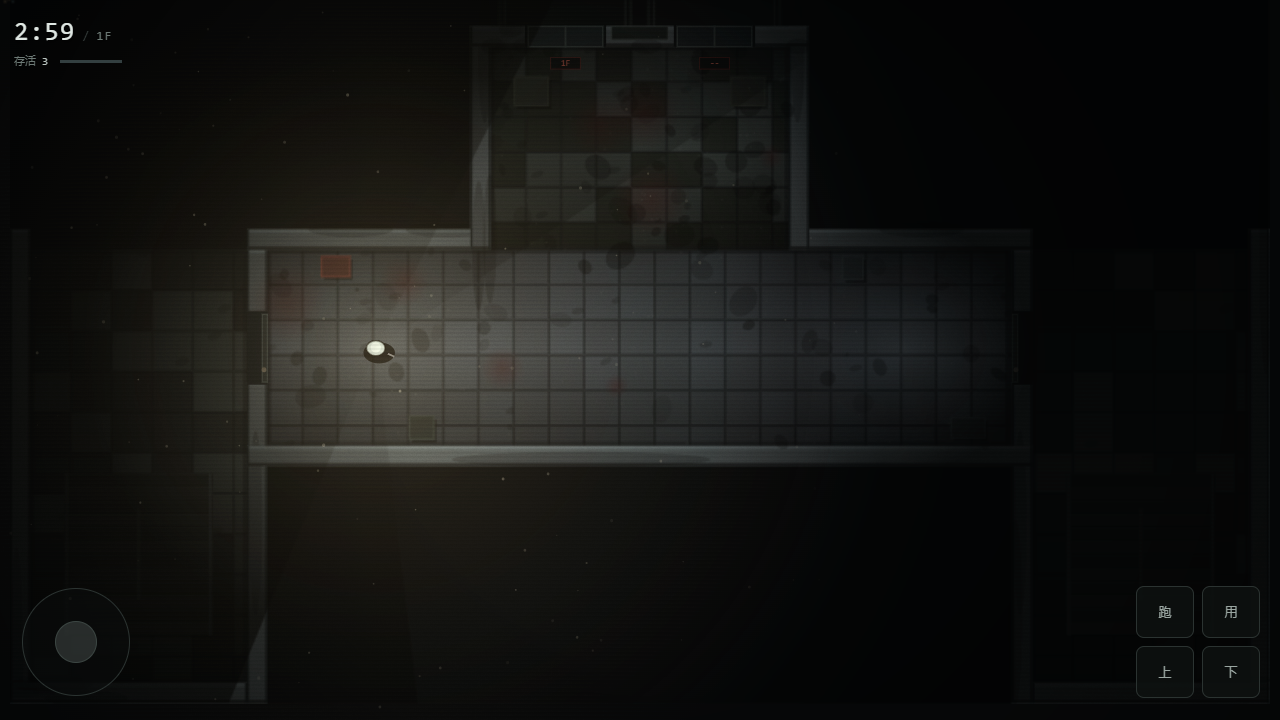
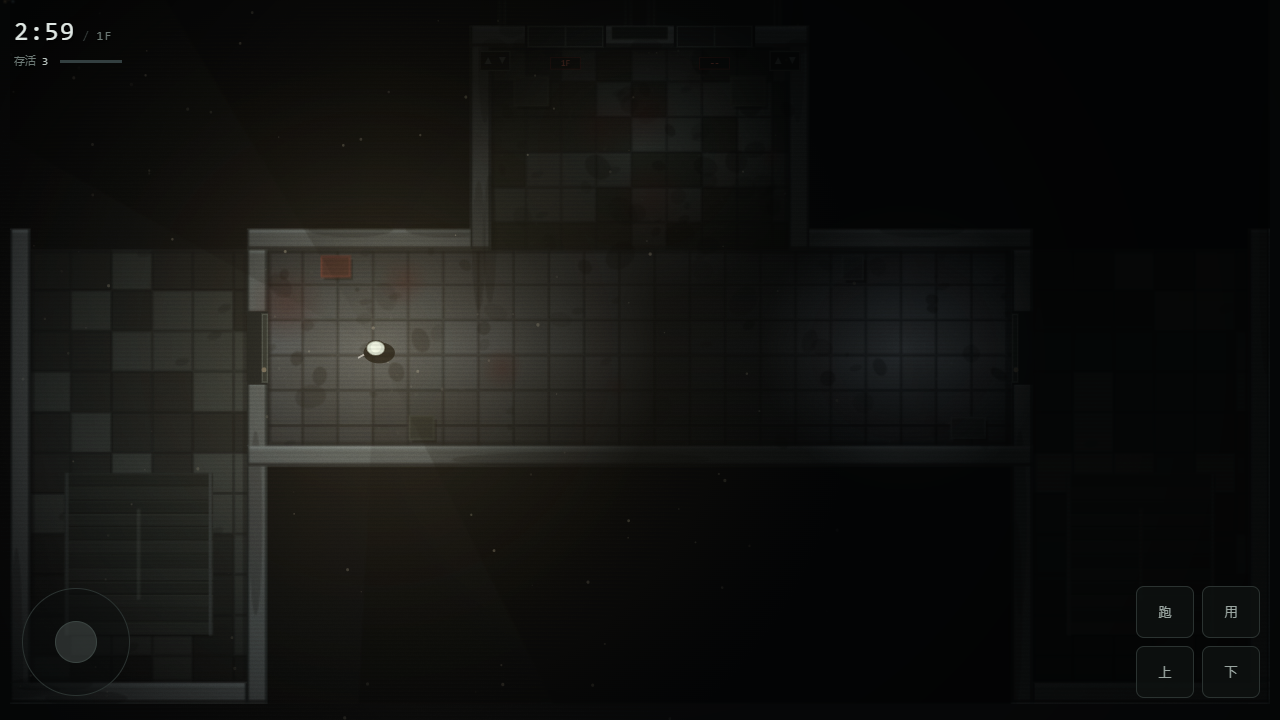
fix: 呼梯面板可点、点轿厢可进、点楼梯门先走近再推、楼道里点楼梯自动上楼

diff --git a/js/main.js b/js/main.js
@@ -10,6 +10,9 @@
   var last = 0;
   var running = false;
   var walkTarget = null;
+  var walkPath = [];
+  var pendingCall = null;
+  var pendingDoor = null;
   var lastMoveY = 0;
   var started = false;
   var lastSpace = null;
@@ -34,6 +37,12 @@
   }
 
   function restart() { boot(); }
+
+  /* 多段路点：比如「先走到门前 → 再穿过去 → 再到楼梯口」 */
+  function setWalk(points) {
+    walkPath = points.slice();
+    walkTarget = walkPath.length ? walkPath[0] : null;
+  }
 
   /* ---------- 动作 ---------- */
 
@@ -83,24 +92,47 @@
     var dA = g.stairDoorA.rect, dB = g.stairDoorB.rect;
     if (World.dist(pt.x, pt.y, dA.x + dA.w / 2, dA.y + dA.h / 2) < 0.85 ||
       World.dist(pt.x, pt.y, dB.x + dB.w / 2, dB.y + dB.h / 2) < 0.85) {
-      World.playerToggleDoor.call(null);
-      /* 距离太远就先走过去 */
-      var L = World.dist(pt.x, pt.y, dA.x, dA.y) < World.dist(pt.x, pt.y, dB.x, dB.y) ? "A" : "B";
-      var dr = L === "A" ? dA : dB;
-      if (World.dist(p.x, p.y, dr.x + dr.w / 2, dr.y + dr.h / 2) > 1.35) {
-        walkTarget = { x: dr.x + dr.w / 2, y: dr.y + dr.h / 2 };
+      var L0 = World.dist(pt.x, pt.y, dA.x, dA.y) < World.dist(pt.x, pt.y, dB.x, dB.y) ? "A" : "B";
+      var dr0 = L0 === "A" ? dA : dB;
+      /* 门前站位：走廊一侧，别站墙里 */
+      var front = { x: L0 === "A" ? dr0.x + dr0.w + 0.6 : dr0.x - 0.6, y: dr0.y + dr0.h / 2 };
+      if (World.dist(p.x, p.y, front.x, front.y) > 0.7) {
+        setWalk([{ x: front.x, y: front.y }]);
+        pendingDoor = L0;
+      } else {
+        World.playerToggleDoor();
       }
       return;
     }
 
-    /* 呼梯按钮 */
-    var cC = g.elev.C.gap, cD = g.elev.D.gap;
-    var nearC = Math.abs(pt.x - (cC.x + cC.w / 2)) < 0.5 && Math.abs(pt.y - cC.y) < 0.6;
-    var nearD = Math.abs(pt.x - (cD.x + cD.w / 2)) < 0.5 && Math.abs(pt.y - cD.y) < 0.6;
-    if (nearC || nearD) {
-      if (Geom.inRect(g.hall, p.x, p.y, -0.05)) World.playerCallElevator(1);
-      else walkTarget = { x: g.hallCX, y: g.hallY0 + 1.1 };
-      return;
+    /* 电梯：呼梯面板 / 轿厢 */
+    for (var i = 0; i < world.elevators.length; i++) {
+      var e = world.elevators[i];
+      var info = e.id === "C" ? g.elev.C : g.elev.D;
+      var car = info.car, panel = info.panel;
+
+      /* 点轿厢（井道里，或门开着时车体露出来的那块） */
+      var inCarArea = pt.y < g.hallY0 - 0.05 && pt.x > car.x - 0.2 && pt.x < car.x + car.w + 0.2;
+      if (inCarArea) {
+        if (e.doorsOpen && Math.abs(e.floor - p.floor) < 0.06) {
+          var carRect = e.id === "C" ? g.elev.C.car : g.elev.D.car;
+          setWalk([{ x: e.cx, y: g.hallY0 - 0.15 }, { x: e.cx, y: carRect.y + carRect.h * 0.55 }]);
+          return;
+        }
+        if (Geom.inRect(g.hall, p.x, p.y, 0.2)) World.playerCallElevator(1);
+        else { setWalk([{ x: g.hallCX, y: g.hallY0 + 1.0 }]); pendingCall = 1; }
+        return;
+      }
+
+      /* 点 ▲▼ 面板 */
+      var pad = 0.14;
+      if (pt.x > panel.x - pad && pt.x < panel.x + panel.w + pad &&
+        pt.y > panel.y - pad && pt.y < panel.y + panel.h + pad) {
+        var dir = (pt.x < panel.x + panel.w / 2) ? 1 : -1;
+        if (Geom.inRect(g.hall, p.x, p.y, 0.2)) World.playerCallElevator(dir);
+        else { setWalk([{ x: g.hallCX, y: g.hallY0 + 1.0 }]); pendingCall = dir; }
+        return;
+      }
     }
 
     /* 楼梯通道：点上半段上楼，下半段下楼 */
@@ -108,7 +140,15 @@
       if (World.nearStairs()) {
         World.playerTryStairs(pt.y < g.stairZoneA.y + g.stairZoneA.h / 2 ? 1 : -1);
       } else {
-        walkTarget = { x: pt.x, y: g.stairZoneA.y + 0.45 };
+        var useA = Geom.inRect(g.stairZoneA, pt.x, pt.y, 0);
+        var dr = useA ? g.stairDoorA.rect : g.stairDoorB.rect;
+        var cy = dr.y + dr.h / 2;
+        var sign = useA ? 1 : -1;
+        var front = { x: dr.x + dr.w / 2 + sign * 0.75, y: cy };   // 门前（走廊侧）
+        var gap = { x: dr.x + dr.w / 2, y: cy };                    // 门洞里
+        var inside = { x: dr.x + dr.w / 2 - sign * 0.95, y: cy };   // 楼梯间里（门的另一侧）
+        setWalk([front, gap, inside, { x: pt.x, y: g.stairZoneA.y + 0.6 }]);
+        pendingDoor = useA ? "A" : "B";
       }
       return;
     }
@@ -118,12 +158,12 @@
       var e = world.elevators[i];
       var car = e.id === "C" ? g.elev.C.car : g.elev.D.car;
       if (e.doorsOpen && Math.abs(e.floor - p.floor) < 0.06 && Geom.inRect(car, pt.x, pt.y, 0)) {
-        walkTarget = { x: e.cx, y: g.hallY0 - 0.3 };
+        setWalk([{ x: e.cx, y: g.hallY0 - 0.3 }]);
         return;
       }
     }
 
-    walkTarget = { x: pt.x, y: pt.y };
+    setWalk([{ x: pt.x, y: pt.y }]);
   }
 
   /* ---------- 主循环 ---------- */
@@ -165,15 +205,32 @@
 
     /* 点地走路 */
     var dx = mv.x, dy = mv.y, sprint = mv.sprint;
+    if (pendingDoor) {
+      var gd = world.geom;
+      var dd = pendingDoor === "A" ? gd.stairDoorA.rect : gd.stairDoorB.rect;
+      var fp = { x: pendingDoor === "A" ? dd.x + dd.w + 0.6 : dd.x - 0.6, y: dd.y + dd.h / 2 };
+      if (World.dist(p.x, p.y, fp.x, fp.y) < 0.5) {
+        if (!world.state.stairDoors[p.floor][pendingDoor].open) World.playerToggleDoor();
+        pendingDoor = null;
+      }
+    }
+    if (pendingCall && Geom.inRect(world.geom.hall, p.x, p.y, 0.2)) {
+      World.playerCallElevator(pendingCall);
+      pendingCall = null;
+    }
+    if (!walkTarget && walkPath.length) walkTarget = walkPath[0];
     if (walkTarget) {
       var ddx = walkTarget.x - p.x, ddy = walkTarget.y - p.y;
       var d = Math.hypot(ddx, ddy);
-      if (d < 0.18 || (Math.abs(mv.x) > 0.3 || Math.abs(mv.y) > 0.3)) {
-        walkTarget = null;
-      } else {
-        dx = ddx / d; dy = ddy / d;
-        sprint = d > 3 && p.stamina > 30;
+      if (d < 0.2) {
+        walkPath.shift();
+        walkTarget = walkPath.length ? walkPath[0] : null;
+        ddx = walkTarget ? walkTarget.x - p.x : 0;
+        ddy = walkTarget ? walkTarget.y - p.y : 0;
+        d = walkTarget ? Math.hypot(ddx, ddy) : 0;
       }
+      if (Math.abs(mv.x) > 0.3 || Math.abs(mv.y) > 0.3) { walkPath = []; walkTarget = null; }
+      else if (walkTarget) { dx = ddx / d; dy = ddy / d; sprint = d > 3 && p.stamina > 30; }
     }
 
     if (p && p.alive) World.playerMoveAxis(dx, dy, sprint, dt);

diff --git a/tools/browser-flow.js b/tools/browser-flow.js
@@ -1,0 +1,65 @@
+/* 浏览器里跑一遍：点地面 → 呼梯 → 等门 → 进梯 → 按层 → 到站 → 出梯
+ * 用法：把这文件内容粘到 DevTools console，或在 Playwright 里 evaluate。 */
+(async () => {
+  const g = window.EK2, w = g.world, p = w.player, G = w.geom;
+  const stage = document.getElementById("stage");
+  const rect0 = stage.getBoundingClientRect();
+  const view = () => window.Render.view;
+  const toScreen = (x, y) => {
+    const v = view(), dx = (x - v.cx) * v.s, dy = (y - v.cy) * v.s;
+    if (v.rotate) return { x: rect0.left + v.ox + dy, y: rect0.top + v.oy - dx };
+    return { x: rect0.left + v.ox + dx, y: rect0.top + v.oy + dy };
+  };
+  const click = (x, y, label) => {
+    const q = toScreen(x, y);
+    stage.dispatchEvent(new MouseEvent("click", { clientX: q.x, clientY: q.y, bubbles: true }));
+    log.push("点击 " + (label || (x.toFixed(1) + "," + y.toFixed(1))));
+  };
+  const step = (n) => { for (let i = 0; i < n; i++) g.step(0.05); };
+  const waitFor = (fn, frames, label) => {
+    for (let i = 0; i < frames; i++) { g.step(0.05); if (fn()) { log.push("等到了: " + label); return true; } }
+    log.push("超时: " + label);
+    return false;
+  };
+  const log = [];
+  const C = () => w.elevators[0], D = () => w.elevators[1];
+  const stateLine = () => w.elevators.map(e => e.id + "@" + e.floor.toFixed(1) + (e.doorsOpen ? "开" : e.state === "moving" ? "行" : "关")).join(" ");
+
+  /* 1. 走到电梯厅 */
+  click(G.hallCX, G.hallY0 + 1.0, "电梯厅");
+  waitFor(() => p.y < -0.2, 200, "进电梯厅");
+  log.push("位置 " + p.x.toFixed(2) + "," + p.y.toFixed(2));
+
+  /* 2. 按呼梯 */
+  click(G.elev.C.call.x, G.elev.C.call.y, "C 呼梯");
+  waitFor(() => w.elevators.some(e => Math.abs(e.floor - p.floor) < 0.06 && e.doorsOpen), 900, "有一部门开");
+  log.push("门开了: " + stateLine());
+
+  /* 3. 走进轿厢 */
+  const car = G.elev.C.car;
+  click(car.x + car.w / 2, car.y + car.h / 2, "轿厢");
+  waitFor(() => p.space === "car", 200, "进轿厢");
+  log.push("进梯: " + p.space + "/" + p.carId);
+
+  /* 4. 按 7 层 */
+  const btn = [...document.querySelectorAll(".cf")].find(b => b.textContent === "7");
+  if (btn) btn.click();
+  step(4);
+  log.push("按下 7F，C 梯 calls=" + [...C().calls].join(","));
+
+  /* 5. 等到 7 层开门 */
+  waitFor(() => C().doorsOpen && Math.abs(C().floor - 7) < 0.06, 1200, "到 7F 开门");
+  log.push("到达: " + stateLine() + " 玩家 " + p.space);
+
+  /* 6. 出门（空格） */
+  document.dispatchEvent(new KeyboardEvent("keydown", { code: "Space" }));
+  step(4);
+  log.push("出门后: " + p.space + " floor=" + p.floor + " viewFloor=" + w.viewFloor);
+
+  /* 7. 走到楼梯间：点楼梯门 */
+  click(G.stairDoorA.rect.x + G.stairDoorA.rect.w / 2, G.stairDoorA.rect.y + G.stairDoorA.rect.h / 2, "楼梯门A");
+  waitFor(() => w.stairDoors[p.floor].A.amt > 0.5, 120, "楼梯门打开");
+  log.push("门 A 打开 amt=" + w.stairDoors[p.floor].A.amt.toFixed(2));
+
+  return { log, version: window.CFG.VERSION };
+})();

diff --git a/js/world.js b/js/world.js
@@ -184,6 +184,13 @@ var World = (function () {
     if (!ok) {
       for (var j = 0; j < G.connectors.length; j++) if (Geom.inRect(G.connectors[j], x, y, -0.002)) { ok = true; break; }
     }
+    if (!ok) {
+      for (var m = 0; m < W.elevators.length; m++) {
+        var em = W.elevators[m];
+        if (!carOpenAt(em, floor)) continue;
+        if (inCarRect(em.id, x, y, -r * 0.4)) { ok = true; break; }
+      }
+    }
     if (!ok) return false;
     var walls = wallsAt(floor);
     for (var k = 0; k < walls.length; k++) if (Geom.circleRect(x, y, r, walls[k])) return false;
@@ -238,7 +245,7 @@ var World = (function () {
     for (var i = 0; i < W.elevators.length; i++) {
       var e = W.elevators[i];
       if (!carOpenAt(e, a.floor)) continue;
-      if (inCarRect(e.id, a.x, a.y, r * 0.2)) {
+      if (inCarRect(e.id, a.x, a.y, -r * 0.35)) {
         boardCar(a, e);
         return;
       }
@@ -436,8 +443,16 @@ var World = (function () {
     if (W.over) return;
     W.time += dt;
 
-    /* 玩家楼层 */
-    if (W.player && W.player.space === "floor") W.floor = W.player.floor;
+    /* 玩家楼层 / 正在渲染的楼层 */
+    if (W.player) {
+      if (W.player.space === "floor") { W.floor = W.player.floor; W.viewFloor = W.player.floor; }
+      else if (W.player.space === "car") {
+        var pc = carById(W.player.carId);
+        if (pc) { W.floor = Math.round(pc.floor); W.viewFloor = Math.round(pc.floor); }
+      } else if (W.player.space === "stair" && W.player.stair) {
+        W.viewFloor = W.player.stair.to;
+      }
+    }
 
     /* 门：自动关 */
     for (var f = 1; f <= Cfg.FLOORS; f++) {

diff --git a/js/render.js b/js/render.js
@@ -714,6 +714,24 @@ var Render = (function () {
     ctx.strokeRect(gap.x - open, gap.y, leafW, gap.h);
     ctx.strokeRect(gap.x + leafW + open, gap.y, leafW, gap.h);
 
+    /* 门旁的呼梯面板：▲ 上 / ▼ 下（有人按过会亮） */
+    var panel = e.id === "C" ? g.elev.C.panel : g.elev.D.panel;
+    ctx.fillStyle = "rgba(12,15,16,0.96)";
+    ctx.fillRect(panel.x, panel.y, panel.w, panel.h);
+    ctx.strokeStyle = "#39423f";
+    ctx.lineWidth = 0.02;
+    ctx.strokeRect(panel.x + 0.01, panel.y + 0.01, panel.w - 0.02, panel.h - 0.02);
+    var upLit = world.hallUp[world.viewFloor].size > 0;
+    var downLit = world.hallDown[world.viewFloor].size > 0;
+    ctx.font = "0.17px ui-monospace, monospace";
+    ctx.textAlign = "center";
+    ctx.textBaseline = "middle";
+    ctx.fillStyle = upLit ? "#e8c886" : "#59645f";
+    ctx.fillText("▲", panel.x + panel.w * 0.27, panel.y + panel.h * 0.52);
+    ctx.fillStyle = downLit ? "#e8c886" : "#59645f";
+    ctx.fillText("▼", panel.x + panel.w * 0.73, panel.y + panel.h * 0.52);
+    ctx.textAlign = "left";
+
     /* 门上方的小显示屏：楼层 + 方向 */
     var cy = gap.y + gap.h + 0.26;
     ctx.save();

diff --git a/js/geom.js b/js/geom.js
@@ -120,8 +120,14 @@ var Geom = (function () {
       walk: [corridor, hall, stairA, stairB],
       walls: walls,
       elev: {
-        C: { gap: gapC, car: carC, cx: cCX, call: callC, doorW: doorW },
-        D: { gap: gapD, car: carD2, cx: dCX, call: callD, doorW: doorW }
+        C: {
+          gap: gapC, car: carC, cx: cCX, doorW: doorW,
+          panel: rect(cCX - doorW / 2 - 0.72, -hd + 0.06, 0.46, 0.30)
+        },
+        D: {
+          gap: gapD, car: carD2, cx: dCX, doorW: doorW,
+          panel: rect(dCX + doorW / 2 + 0.26, -hd + 0.06, 0.46, 0.30)
+        }
       },
       lamps: lamps,
       /* 楼梯口在走廊上的落点（换层后站这儿） */

diff --git a/README.md b/README.md
@@ -27,7 +27,7 @@
 | `F` | 手电开关 |
 | `M` | 静音 |
 | `Esc` | 暂停 |
-| 鼠标 | 点地面走过去；点门推门；点呼梯按钮；点楼梯上下楼 |
+| 鼠标 | 点地面走过去；点楼梯门（会自动走到门前再推开）；点电梯门旁的 ▲▼ 呼梯（会自动走过去再按）；点轿厢走进去；点楼梯段自动上楼/下楼 |
 | 触屏 | 左下摇杆 + 右下「跑 / 用 / 上 / 下」 |
 
 进了轿厢，右侧会亮起楼层面板：点楼层（或数字键）、开门、关门、出去。
